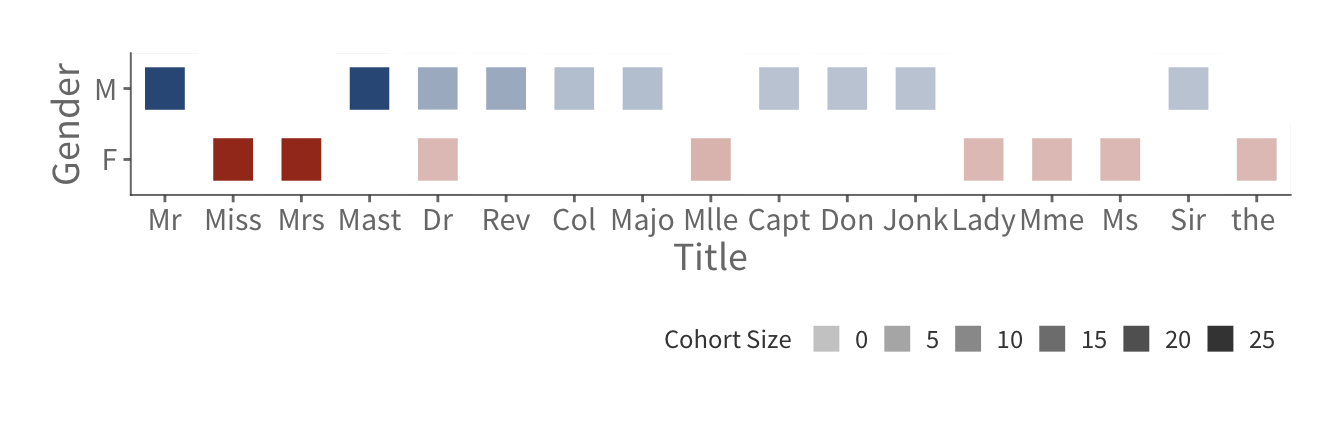
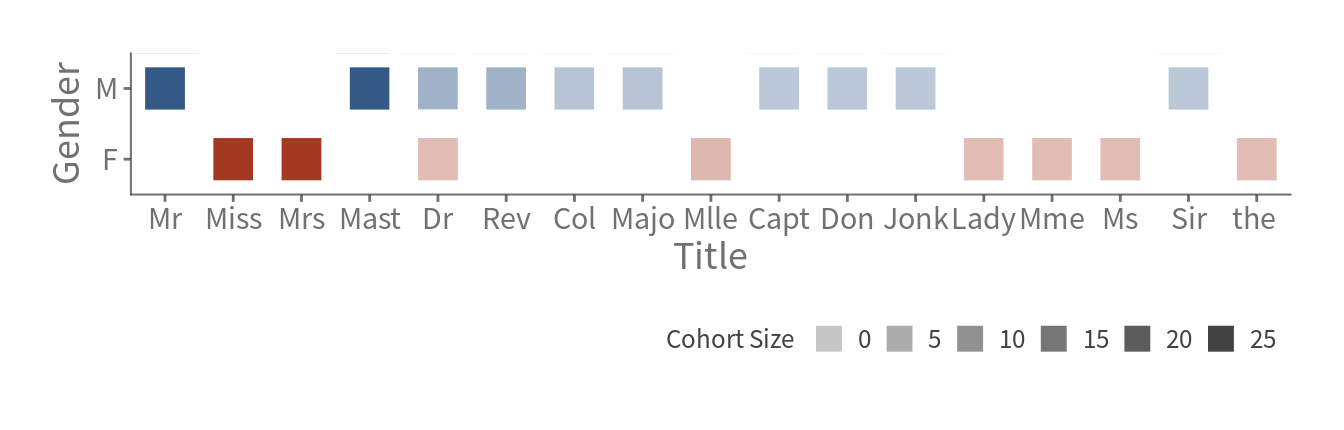
Change color formats

diff --git a/index.html b/index.html
@@ -24,7 +24,7 @@
 <script src="index_files/navigation-1.1/codefolding.js"></script>
 <link href="index_files/highlightjs-9.12.0/default.css" rel="stylesheet" />
 <script src="index_files/highlightjs-9.12.0/highlight.js"></script>
-<script src="index_files/htmlwidgets-0.8/htmlwidgets.js"></script>
+<script src="index_files/htmlwidgets-0.9/htmlwidgets.js"></script>
 <link href="index_files/leaflet-0.7.7/leaflet.css" rel="stylesheet" />
 <script src="index_files/leaflet-0.7.7/leaflet.js"></script>
 <link href="index_files/leafletfix-1.0.0/leafletfix.css" rel="stylesheet" />
@@ -620,7 +620,7 @@ company_plot &lt;- ggplot(company_stack, aes(x= Size, y= Value)) +
                                             &quot;AttrParents&quot;=get_color(2),
                                             &quot;AttrChild&quot;=get_color(3)),
                                    guide = &#39;none&#39;) + 
-                geom_area(aes(fill = Attribution, colour=Attribution), size=2, linetype=1, position = &#39;stack&#39;) + 
+                geom_area(aes(fill = Attribution, colour=Attribution), size=1.5, linetype=1, position = &#39;stack&#39;) + 
                 geom_text(data=unique(company_stack %&gt;% select(Size, SurvivalRate)),
                           aes(x=Size, y=SurvivalRate+0.03, label=paste0(round(SurvivalRate*100),&quot;%&quot;)),
                           color=txt_color,
@@ -850,8 +850,8 @@ pwalk(
 )
 
 map</code></pre>
-<div id="htmlwidget-598eee6cb26d73c2e16f" style="width:100%;height:268.8px;" class="leaflet html-widget"></div>
-<script type="application/json" data-for="htmlwidget-598eee6cb26d73c2e16f">{"x":{"options":{"crs":{"crsClass":"L.CRS.EPSG3857","code":null,"proj4def":null,"projectedBounds":null,"options":{}}},"calls":[{"method":"addProviderTiles","args":["CartoDB.Positron",null,null,{"errorTileUrl":"","noWrap":false,"zIndex":null,"unloadInvisibleTiles":null,"updateWhenIdle":null,"detectRetina":false,"reuseTiles":false}]},{"method":"addAwesomeMarkers","args":[41.7666636,-50.2333324,{"icon":"ship","markerColor":"gray","iconColor":"#FFFFFF","spin":false,"squareMarker":false,"iconRotate":0,"font":"monospace","prefix":"fa"},null,null,{"clickable":true,"draggable":false,"keyboard":true,"title":"","alt":"","zIndexOffset":0,"opacity":1,"riseOnHover":false,"riseOffset":250},"Titanic Crash Site",null,null,null,null,null,null]},{"method":"addCircleMarkers","args":[49.645009,-1.62444,10,null,null,{"lineCap":null,"lineJoin":null,"clickable":true,"pointerEvents":null,"className":"","stroke":true,"color":"#858B1F","weight":5,"opacity":0.8,"fill":true,"fillColor":"#858B1F","fillOpacity":0.5,"dashArray":null},null,null,"Cherbough<br>Survival Likelihood: 55%",null,null,null,null]},{"method":"addCircleMarkers","args":[51.851,-8.2967,10,null,null,{"lineCap":null,"lineJoin":null,"clickable":true,"pointerEvents":null,"className":"","stroke":true,"color":"#A43820","weight":5,"opacity":0.8,"fill":true,"fillColor":"#A43820","fillOpacity":0.5,"dashArray":null},null,null,"Queenstown<br>Survival Likelihood: 39%",null,null,null,null]},{"method":"addCircleMarkers","args":[50.9038684,-1.4176118,15,null,null,{"lineCap":null,"lineJoin":null,"clickable":true,"pointerEvents":null,"className":"","stroke":true,"color":"#A43820","weight":5,"opacity":0.8,"fill":true,"fillColor":"#A43820","fillOpacity":0.5,"dashArray":null},null,null,"Southampton<br>Survival Likelihood: 34%",null,null,null,null]}],"limits":{"lat":[41.7666636,51.851],"lng":[-50.2333324,-1.4176118]}},"evals":[],"jsHooks":[]}</script>
+<div id="htmlwidget-a9b63c9de5fdb04517db" style="width:100%;height:268.8px;" class="leaflet html-widget"></div>
+<script type="application/json" data-for="htmlwidget-a9b63c9de5fdb04517db">{"x":{"options":{"crs":{"crsClass":"L.CRS.EPSG3857","code":null,"proj4def":null,"projectedBounds":null,"options":{}}},"calls":[{"method":"addProviderTiles","args":["CartoDB.Positron",null,null,{"errorTileUrl":"","noWrap":false,"zIndex":null,"unloadInvisibleTiles":null,"updateWhenIdle":null,"detectRetina":false,"reuseTiles":false}]},{"method":"addAwesomeMarkers","args":[41.7666636,-50.2333324,{"icon":"ship","markerColor":"gray","iconColor":"#FFFFFF","spin":false,"squareMarker":false,"iconRotate":0,"font":"monospace","prefix":"fa"},null,null,{"clickable":true,"draggable":false,"keyboard":true,"title":"","alt":"","zIndexOffset":0,"opacity":1,"riseOnHover":false,"riseOffset":250},"Titanic Crash Site",null,null,null,null,null,null]},{"method":"addCircleMarkers","args":[49.645009,-1.62444,10,null,null,{"lineCap":null,"lineJoin":null,"clickable":true,"pointerEvents":null,"className":"","stroke":true,"color":"#89942F","weight":5,"opacity":0.8,"fill":true,"fillColor":"#89942F","fillOpacity":0.5,"dashArray":null},null,null,"Cherbough<br>Survival Likelihood: 55%",null,null,null,null]},{"method":"addCircleMarkers","args":[51.851,-8.2967,10,null,null,{"lineCap":null,"lineJoin":null,"clickable":true,"pointerEvents":null,"className":"","stroke":true,"color":"#A43820","weight":5,"opacity":0.8,"fill":true,"fillColor":"#A43820","fillOpacity":0.5,"dashArray":null},null,null,"Queenstown<br>Survival Likelihood: 39%",null,null,null,null]},{"method":"addCircleMarkers","args":[50.9038684,-1.4176118,15,null,null,{"lineCap":null,"lineJoin":null,"clickable":true,"pointerEvents":null,"className":"","stroke":true,"color":"#A43820","weight":5,"opacity":0.8,"fill":true,"fillColor":"#A43820","fillOpacity":0.5,"dashArray":null},null,null,"Southampton<br>Survival Likelihood: 34%",null,null,null,null]}],"limits":{"lat":[41.7666636,51.851],"lng":[-50.2333324,-1.4176118]}},"evals":[],"jsHooks":[]}</script>
 <p><br> The map above indicates that those who embarked at Cherbough are more likely to survive. This is a puzzling observation as where the passenger embarks should not have an impact of what is happening on the Titanic.</p>
 <pre class="r"><code># Assessing the correlation between Embarkation and Passenger Class
 

diff --git a/README.md b/README.md
@@ -230,7 +230,7 @@ income_plot <-  ggplot(income_set, aes(x=SurvivalRate,
 income_plot
 ```
 
-<img src="/Users/lemuel/Documents/GitHub/Portfolios/titanic/README_files/figure-gfm/unnamed-chunk-4-1.png" style="display: block; margin: auto;" />
+<img src="/home/lemuel/Documents/github/Portfolios/titanic/README_files/figure-gfm/unnamed-chunk-4-1.png" style="display: block; margin: auto;" />
 
 The chart above shows that the more premium the class, the more likely
 passengers were to survive. One reason explaining this could be that 1st
@@ -265,7 +265,7 @@ fares_plot <- ggplot(fares_pdata, aes(x = FareMax,
 fares_plot
 ```
 
-<img src="/Users/lemuel/Documents/GitHub/Portfolios/titanic/README_files/figure-gfm/unnamed-chunk-5-1.png" style="display: block; margin: auto;" />
+<img src="/home/lemuel/Documents/github/Portfolios/titanic/README_files/figure-gfm/unnamed-chunk-5-1.png" style="display: block; margin: auto;" />
 
 Similarly, we also noticed this phenomenon in fares. Passengers who were
 paying more have a higher survival likelihood than others.
@@ -327,7 +327,7 @@ gender_plot <- ggplot(gender_sex_totals, aes(x = Prefix,
 gender_plot
 ```
 
-<img src="/Users/lemuel/Documents/GitHub/Portfolios/titanic/README_files/figure-gfm/unnamed-chunk-6-1.png" style="display: block; margin: auto;" />
+<img src="/home/lemuel/Documents/github/Portfolios/titanic/README_files/figure-gfm/unnamed-chunk-6-1.png" style="display: block; margin: auto;" />
 
 Other than <span class="hl color-1-text">Mr, Miss, Mrs and
 Master</span>, all other titles are not common to the average passenger.
@@ -379,7 +379,7 @@ title_plot <- ggplot(title_set, aes(x=Title,
 title_plot
 ```
 
-<img src="/Users/lemuel/Documents/GitHub/Portfolios/titanic/README_files/figure-gfm/unnamed-chunk-7-1.png" style="display: block; margin: auto;" />
+<img src="/home/lemuel/Documents/github/Portfolios/titanic/README_files/figure-gfm/unnamed-chunk-7-1.png" style="display: block; margin: auto;" />
 
 <span class="hl">All</span> females, regardless of their titles, have
 higher survival likelihoods than males. In addition, having a title
@@ -441,7 +441,7 @@ age_plot <- ggplot(age_pdata, aes(x=AgeMin,
 age_plot
 ```
 
-<img src="/Users/lemuel/Documents/GitHub/Portfolios/titanic/README_files/figure-gfm/unnamed-chunk-8-1.png" style="display: block; margin: auto;" />
+<img src="/home/lemuel/Documents/github/Portfolios/titanic/README_files/figure-gfm/unnamed-chunk-8-1.png" style="display: block; margin: auto;" />
 
 Among those passengers whose age were populated, we can see that younger
 individuals are more likely to survive. One possible explanation could
@@ -539,7 +539,7 @@ company_plot <- ggplot(company_stack, aes(x= Size, y= Value)) +
                                             "AttrParents"=get_color(2),
                                             "AttrChild"=get_color(3)),
                                    guide = 'none') + 
-                geom_area(aes(fill = Attribution, colour=Attribution), size=2, linetype=1, position = 'stack') + 
+                geom_area(aes(fill = Attribution, colour=Attribution), size=1.5, linetype=1, position = 'stack') + 
                 geom_text(data=unique(company_stack %>% select(Size, SurvivalRate)),
                           aes(x=Size, y=SurvivalRate+0.03, label=paste0(round(SurvivalRate*100),"%")),
                           color=txt_color,
@@ -549,7 +549,7 @@ company_plot <- ggplot(company_stack, aes(x= Size, y= Value)) +
 company_plot 
 ```
 
-<img src="/Users/lemuel/Documents/GitHub/Portfolios/titanic/README_files/figure-gfm/unnamed-chunk-9-1.png" style="display: block; margin: auto;" />
+<img src="/home/lemuel/Documents/github/Portfolios/titanic/README_files/figure-gfm/unnamed-chunk-9-1.png" style="display: block; margin: auto;" />
 
 This counterintuitive relationship can be explained through 3 factors:
 
@@ -689,7 +689,7 @@ cabinLet_plot <- ggplot(cabinLet_set, aes(x=as.factor(CabinFloor),
 cabinLet_plot
 ```
 
-<img src="/Users/lemuel/Documents/GitHub/Portfolios/titanic/README_files/figure-gfm/unnamed-chunk-10-1.png" style="display: block; margin: auto;" />
+<img src="/home/lemuel/Documents/github/Portfolios/titanic/README_files/figure-gfm/unnamed-chunk-10-1.png" style="display: block; margin: auto;" />
 
 From the chart above, we know that <span class="hl">Cabins B to E</span>
 has a higher likelihood of survival compared to other cabins. This
@@ -764,7 +764,7 @@ cabinNumber_plot <- ggplot(cabinNumber_set, aes(x = SurvivalRate,
 cabinNumber_plot
 ```
 
-<img src="/Users/lemuel/Documents/GitHub/Portfolios/titanic/README_files/figure-gfm/unnamed-chunk-11-1.png" style="display: block; margin: auto;" />
+<img src="/home/lemuel/Documents/github/Portfolios/titanic/README_files/figure-gfm/unnamed-chunk-11-1.png" style="display: block; margin: auto;" />
 
 It is pretty clear that those who stay in the odd rooms are more likely
 to survive than those in the even rooms.
@@ -836,11 +836,11 @@ map
 
 <!--html_preserve-->
 
-<div id="htmlwidget-e7fdb3ac3d7cd42b751e" class="leaflet html-widget" style="width:100%;height:268.8px;">
+<div id="htmlwidget-94c18801fa9469f3f6ab" class="leaflet html-widget" style="width:100%;height:268.8px;">
 
 </div>
 
-<script type="application/json" data-for="htmlwidget-e7fdb3ac3d7cd42b751e">{"x":{"options":{"crs":{"crsClass":"L.CRS.EPSG3857","code":null,"proj4def":null,"projectedBounds":null,"options":{}}},"calls":[{"method":"addProviderTiles","args":["CartoDB.Positron",null,null,{"errorTileUrl":"","noWrap":false,"zIndex":null,"unloadInvisibleTiles":null,"updateWhenIdle":null,"detectRetina":false,"reuseTiles":false}]},{"method":"addAwesomeMarkers","args":[41.7666636,-50.2333324,{"icon":"ship","markerColor":"gray","iconColor":"#FFFFFF","spin":false,"squareMarker":false,"iconRotate":0,"font":"monospace","prefix":"fa"},null,null,{"clickable":true,"draggable":false,"keyboard":true,"title":"","alt":"","zIndexOffset":0,"opacity":1,"riseOnHover":false,"riseOffset":250},"Titanic Crash Site",null,null,null,null,null,null]},{"method":"addCircleMarkers","args":[49.645009,-1.62444,10,null,null,{"lineCap":null,"lineJoin":null,"clickable":true,"pointerEvents":null,"className":"","stroke":true,"color":"#858B1F","weight":5,"opacity":0.8,"fill":true,"fillColor":"#858B1F","fillOpacity":0.5,"dashArray":null},null,null,"Cherbough<br>Survival Likelihood: 55%",null,null,null,null]},{"method":"addCircleMarkers","args":[51.851,-8.2967,10,null,null,{"lineCap":null,"lineJoin":null,"clickable":true,"pointerEvents":null,"className":"","stroke":true,"color":"#A43820","weight":5,"opacity":0.8,"fill":true,"fillColor":"#A43820","fillOpacity":0.5,"dashArray":null},null,null,"Queenstown<br>Survival Likelihood: 39%",null,null,null,null]},{"method":"addCircleMarkers","args":[50.9038684,-1.4176118,15,null,null,{"lineCap":null,"lineJoin":null,"clickable":true,"pointerEvents":null,"className":"","stroke":true,"color":"#A43820","weight":5,"opacity":0.8,"fill":true,"fillColor":"#A43820","fillOpacity":0.5,"dashArray":null},null,null,"Southampton<br>Survival Likelihood: 34%",null,null,null,null]}],"limits":{"lat":[41.7666636,51.851],"lng":[-50.2333324,-1.4176118]}},"evals":[],"jsHooks":[]}</script>
+<script type="application/json" data-for="htmlwidget-94c18801fa9469f3f6ab">{"x":{"options":{"crs":{"crsClass":"L.CRS.EPSG3857","code":null,"proj4def":null,"projectedBounds":null,"options":{}}},"calls":[{"method":"addProviderTiles","args":["CartoDB.Positron",null,null,{"errorTileUrl":"","noWrap":false,"zIndex":null,"unloadInvisibleTiles":null,"updateWhenIdle":null,"detectRetina":false,"reuseTiles":false}]},{"method":"addAwesomeMarkers","args":[41.7666636,-50.2333324,{"icon":"ship","markerColor":"gray","iconColor":"#FFFFFF","spin":false,"squareMarker":false,"iconRotate":0,"font":"monospace","prefix":"fa"},null,null,{"clickable":true,"draggable":false,"keyboard":true,"title":"","alt":"","zIndexOffset":0,"opacity":1,"riseOnHover":false,"riseOffset":250},"Titanic Crash Site",null,null,null,null,null,null]},{"method":"addCircleMarkers","args":[49.645009,-1.62444,10,null,null,{"lineCap":null,"lineJoin":null,"clickable":true,"pointerEvents":null,"className":"","stroke":true,"color":"#89942F","weight":5,"opacity":0.8,"fill":true,"fillColor":"#89942F","fillOpacity":0.5,"dashArray":null},null,null,"Cherbough<br>Survival Likelihood: 55%",null,null,null,null]},{"method":"addCircleMarkers","args":[51.851,-8.2967,10,null,null,{"lineCap":null,"lineJoin":null,"clickable":true,"pointerEvents":null,"className":"","stroke":true,"color":"#A43820","weight":5,"opacity":0.8,"fill":true,"fillColor":"#A43820","fillOpacity":0.5,"dashArray":null},null,null,"Queenstown<br>Survival Likelihood: 39%",null,null,null,null]},{"method":"addCircleMarkers","args":[50.9038684,-1.4176118,15,null,null,{"lineCap":null,"lineJoin":null,"clickable":true,"pointerEvents":null,"className":"","stroke":true,"color":"#A43820","weight":5,"opacity":0.8,"fill":true,"fillColor":"#A43820","fillOpacity":0.5,"dashArray":null},null,null,"Southampton<br>Survival Likelihood: 34%",null,null,null,null]}],"limits":{"lat":[41.7666636,51.851],"lng":[-50.2333324,-1.4176118]}},"evals":[],"jsHooks":[]}</script>
 
 <!--/html_preserve-->
 
@@ -896,7 +896,7 @@ embark_pclass_plot <- ggplot(embark_pclass, aes(x=as.factor(Embarked),
 embark_pclass_plot
 ```
 
-<img src="/Users/lemuel/Documents/GitHub/Portfolios/titanic/README_files/figure-gfm/unnamed-chunk-13-1.png" style="display: block; margin: auto;" />
+<img src="/home/lemuel/Documents/github/Portfolios/titanic/README_files/figure-gfm/unnamed-chunk-13-1.png" style="display: block; margin: auto;" />
 
 However, by studying the demographics of the passengers embarking at
 each port, we discovered that a higher proportion of Cherbough are 1st
@@ -1297,7 +1297,7 @@ z_plot <- ggplot(data = z_scores, aes(x = sapply(z_scores$Zscore, function (x) {
 z_plot
 ```
 
-<img src="/Users/lemuel/Documents/GitHub/Portfolios/titanic/README_files/figure-gfm/unnamed-chunk-19-1.png" style="display: block; margin: auto;" />
+<img src="/home/lemuel/Documents/github/Portfolios/titanic/README_files/figure-gfm/unnamed-chunk-19-1.png" style="display: block; margin: auto;" />
 
 Using a 1% significant level as the baseline, we conclude that all the
 factors are statistically significant. This means that for each of the
